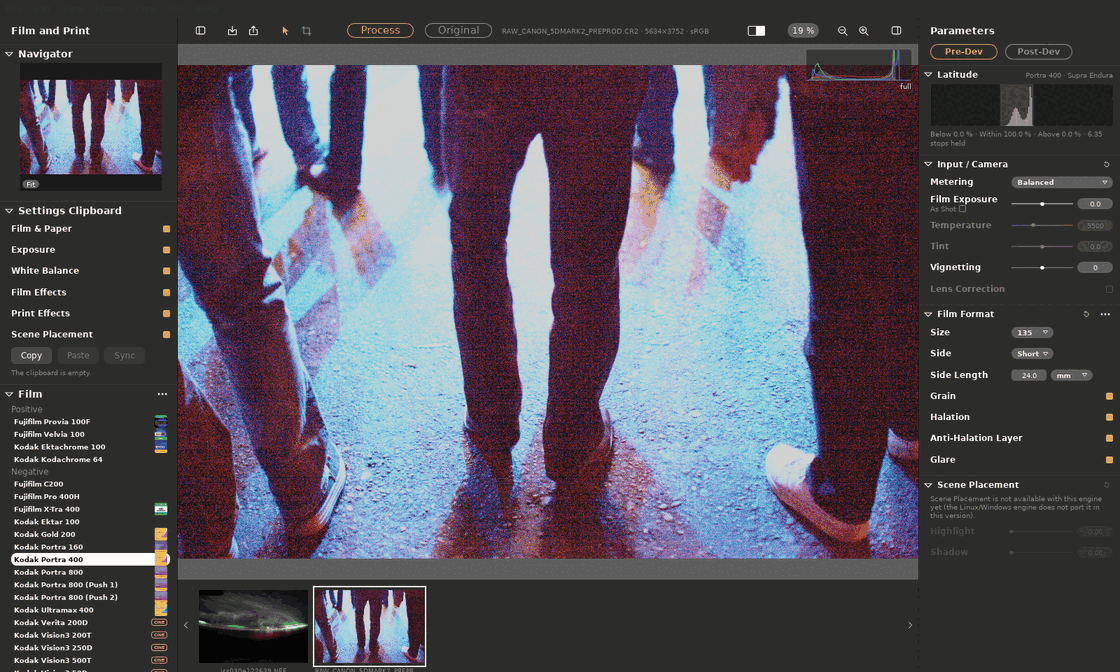
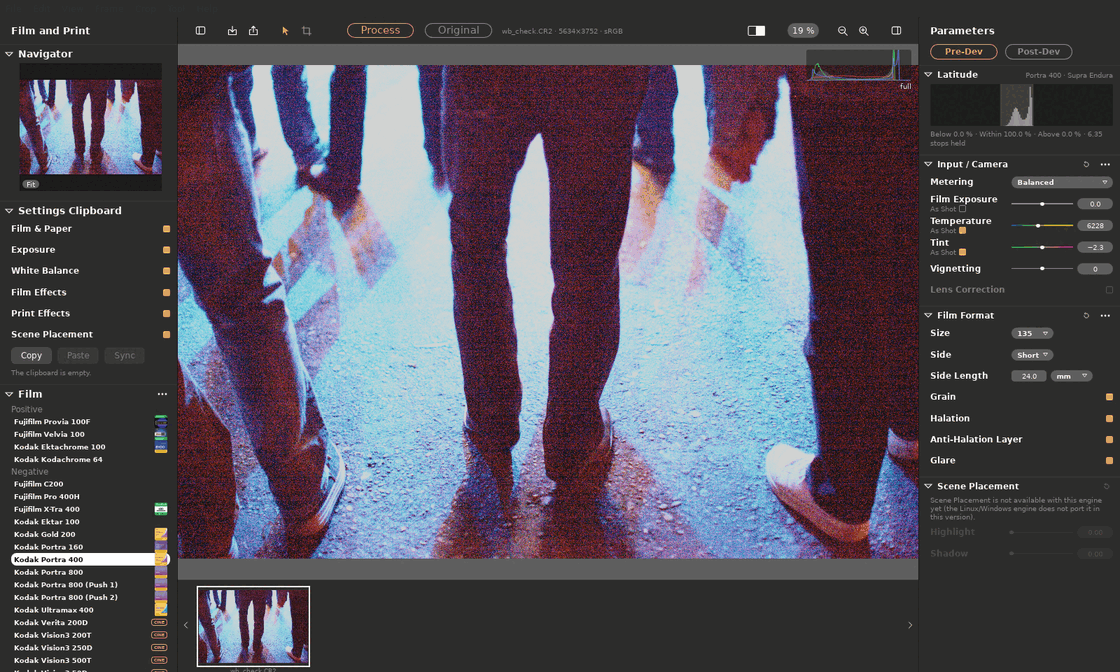
docs(desktop): NOTES after the finish-up pass; white-balance capture
The packaged AppImage (extracted, under Xvfb with the real host on
lavapipe) opened a CR2 with As Shot 6228 K / -2.3, re-decoded at a custom
3205 K from a click on the Temperature track, and undid it. Two captures
replace/extend docs/: the editor with the live white-balance rows, and the
frame after the redecode. Packages rebuilt (.deb 14.5 MB, AppImage
92.3 MB, NSIS setup 10.2 MB with the host exe and engine resources).

Checks: npm run check (51 + 1 skip), cargo test (5), Playwright 6/6,
package.mjs linux and win (exit 0), 7z listing of the installer.

Claude-Session: https://claude.ai/code/session_0178qqXcASEfZiWkMzj9g9pM

diff --git a/desktop/NOTES.md b/desktop/NOTES.md
@@ -3,6 +3,32 @@
 Running log for whoever picks this up next (a restarted worker or a human).
 Newest state first in each list. Read with `git log --oneline -20 -- desktop`.
 
+## Status (2026-10-06, finish-up pass)
+
+What the finish-up pass added on top of the first pass below:
+- Camera white balance at decode (R2): Temperature / Tint with As Shot boxes
+  and presets, re-decoded through `redecode`. Verified in the packaged
+  AppImage (extracted, Xvfb, real host, lavapipe) on a CR2: As Shot read
+  6228 K / −2.3 from the camera, a click on the Temperature track →
+  Custom 3205 K → `redecode` → a cooler full render (42 s), Ctrl+Z → As Shot
+  again (sidecar `decode` checked each time). `docs/linux-white-balance-real-host.png`.
+- The derived film format no longer adds an undo step (`session.test.ts`).
+- `scripts/package.mjs win` builds natively on Windows (MSVC; for CI).
+- No personal address in `package.json`; the .deb Maintainer is
+  "SpektraLab contributors".
+- The staged hosts were current (built from 56f0efe, the latest engine
+  commit; `hello.methods` lists `redecode`), so they were not rebuilt.
+- Checks: vitest 51 + 1 env-gated skip, `cargo test` 5, Playwright 6/6.
+  Packages rebuilt: .deb 14.5 MB, AppImage 92.3 MB, NSIS setup 10.2 MB
+  (contains `spektralab-host.exe`, `host/engine/**` with 34 `.spv`,
+  `host/licenses/**`, `WebView2Loader.dll`).
+- CI notes: `cargo test` needs no `dist/` (a debug build does not embed the
+  frontend; checked by a clean crate rebuild with `dist/` moved away).
+  Playwright needs the Vite dev server it starts itself (`npm run dev:web`,
+  which copies assets from `modern_UI/…/Resources`), so `modern_UI/` must be
+  in the checkout; `/opt/pw-browsers` is optional (Playwright's own Chromium
+  is used when it is absent).
+
 ## Status (2026-10-06, end of the first frontend pass)
 
 **Done and verified with the real host** (`build/host-linux-x64`, lavapipe):
